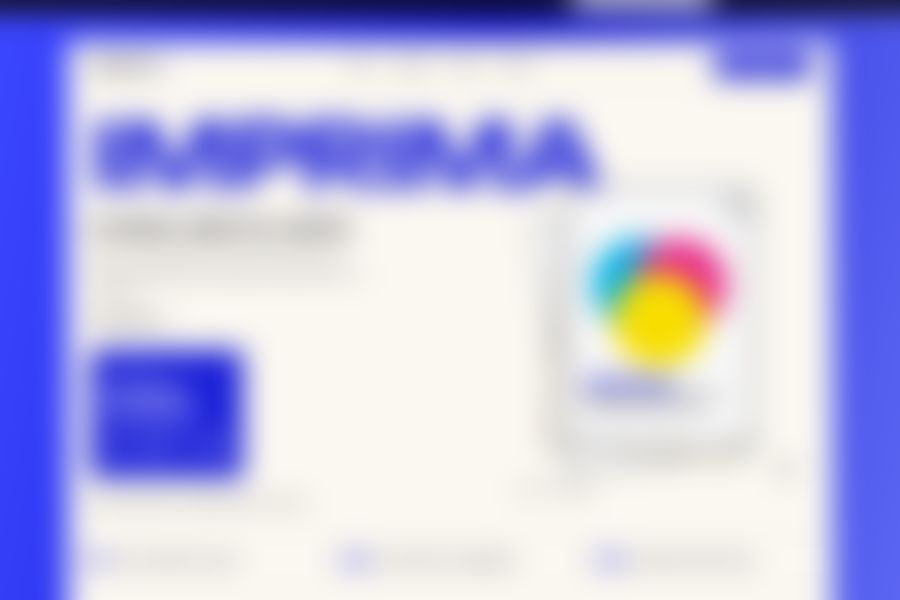
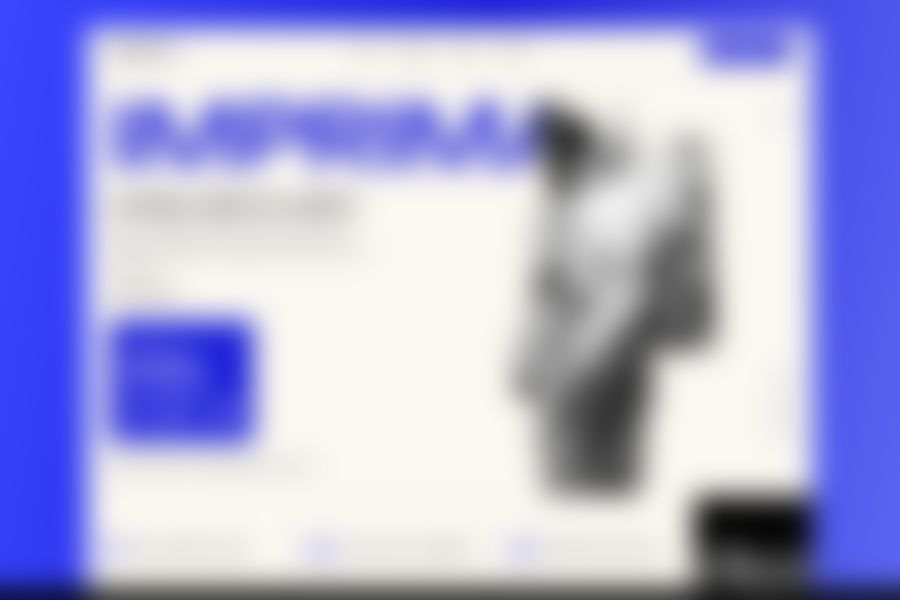
Cobalto: fotos reais P&B fiéis ao pin (#180)
* wip

* Cobalto: fotos reais P&B do pin (astronauta recortado, Lua, Terra, polaroid)

diff --git a/src/components/models/GraficaFold.tsx b/src/components/models/GraficaFold.tsx
@@ -1,6 +1,6 @@
 import { useEffect, useState } from "react";
 
-/** Grafica e estudio de design, construida do zero a partir de um pin creme com tipografia gigante em azul cobalto. Sem fotos: tipografia, blocos de cor e ilustracao em SVG. Pedido de orcamento que fecha no WhatsApp. */
+/** Grafica e estudio de design, construida do zero a partir de um pin creme com tipografia gigante em azul cobalto. Fotos reais em preto e branco (astronauta, Lua, Terra). Pedido de orcamento que fecha no WhatsApp. */
 const BG = "#fbf8f1", BLU = "#1a1fd8", INK = "#0e0e1c", MUT = "#33334a", LINE = "#d9d5c9";
 const STEPS = [
   { t: "Envie o arquivo ou a ideia" },
@@ -20,50 +20,6 @@ const PRICES = [
 ];
 const Ic = ({ d, c = BLU, s = 24 }: { d: string; c?: string; s?: number }) => (
   <svg width={s} height={s} viewBox="0 0 32 32" fill="none" stroke={c} strokeWidth="2" strokeLinecap="round" strokeLinejoin="round" aria-hidden><path d={d} /></svg>
-);
-
-const HeroArt = () => (
-  <svg viewBox="0 0 420 520" className="hart" role="img" aria-label="Folhas empilhadas com círculos de cor ciano, magenta e amarelo">
-    <defs>
-      <pattern id="dots" width="9" height="9" patternUnits="userSpaceOnUse"><circle cx="4.500" cy="4.500" r="2.200" fill={INK} /></pattern>
-      <radialGradient id="fade" cx="50%" cy="50%" r="50%"><stop offset="0" stopColor="#fff" stopOpacity="0" /><stop offset="1" stopColor="#fff" stopOpacity="1" /></radialGradient>
-      <mask id="mk"><rect width="420" height="520" fill="#fff" /><rect width="420" height="520" fill="url(#fade)" /></mask>
-    </defs>
-    <g transform="rotate(-8 210 280)"><rect x="70" y="120" width="250" height="340" rx="6" fill="#fff" stroke={INK} strokeWidth="2" /></g>
-    <g transform="rotate(5 210 280)"><rect x="80" y="110" width="250" height="340" rx="6" fill="#f1ecdf" stroke={INK} strokeWidth="2" /></g>
-    <g>
-      <rect x="92" y="96" width="250" height="340" rx="6" fill="#fff" stroke={INK} strokeWidth="2" />
-      <rect x="92" y="96" width="250" height="340" rx="6" fill="url(#dots)" opacity=".16" />
-      <g style={{ mixBlendMode: "multiply" }}>
-        <circle cx="190" cy="226" r="62" fill="#00b7f0" />
-        <circle cx="244" cy="226" r="62" fill="#ee2a8e" />
-        <circle cx="217" cy="272" r="62" fill="#ffe500" />
-      </g>
-      <path d="M217 226l0 0" />
-      <rect x="116" y="352" width="120" height="10" fill={BLU} />
-      <rect x="116" y="372" width="180" height="6" fill={INK} opacity=".7" />
-      <rect x="116" y="388" width="150" height="6" fill={INK} opacity=".35" />
-      <circle cx="318" cy="120" r="9" fill="none" stroke={INK} strokeWidth="1.500" /><path d="M318 106v28M304 120h28" stroke={INK} strokeWidth="1.500" />
-    </g>
-    <g stroke={INK} strokeWidth="2"><path d="M370 470h28M384 456v28" /></g>
-    <g fontFamily="Unbounded, sans-serif" fontSize="9" fill={INK} letterSpacing="2"><text x="30" y="500">C M Y K 100%</text></g>
-  </svg>
-);
-
-const PlanetArt = () => (
-  <svg viewBox="0 0 300 520" className="part" preserveAspectRatio="xMidYMid slice" aria-hidden>
-    <defs>
-      <pattern id="h2" width="10" height="10" patternUnits="userSpaceOnUse"><circle cx="5" cy="5" r="3.200" fill="#fff" /></pattern>
-      <radialGradient id="g2" cx="42%" cy="38%" r="70%"><stop offset="0" stopColor="#fff" /><stop offset="1" stopColor="#000" /></radialGradient>
-      <mask id="m2"><circle cx="150" cy="210" r="124" fill="url(#g2)" /></mask>
-    </defs>
-    <rect width="300" height="520" fill={BLU} />
-    <rect width="300" height="520" fill="url(#h2)" mask="url(#m2)" />
-    <circle cx="150" cy="210" r="124" fill="none" stroke="#fff" strokeWidth="1.500" />
-    <path d="M0 520V430c40-30 70-34 110-18 40 16 70 8 110-14 30-16 56-12 80 0V520z" fill="#fff" />
-    <path d="M0 520V460c50-26 90-20 130-4 40 14 90 6 170-24V520z" fill={INK} />
-    <g stroke="#fff" strokeWidth="2"><path d="M24 24h22M35 13v22M254 24h22M265 13v22" /></g>
-  </svg>
 );
 
 export function GraficaFold({ client }: { client?: { name?: string; whatsapp?: string; city?: string } }) {
@@ -98,9 +54,10 @@ export function GraficaFold({ client }: { client?: { name?: string; whatsapp?: s
         .cb .burger{display:none;background:none;border:0;width:44px;height:44px;cursor:pointer}
         .cb .mmenu{position:absolute;top:72px;left:12px;right:12px;background:#fff;border:1px solid ${LINE};padding:8px;z-index:9;display:flex;flex-direction:column;box-shadow:0 12px 30px rgba(0,0,0,.15)}
         .cb .mmenu a{padding:14px 12px;font-weight:600;cursor:pointer}
-        .cb .hero{position:relative;padding:34px 34px 0;min-height:600px}
-        .cb .big{font-family:Unbounded,sans-serif;font-weight:700;color:${BLU};font-size:clamp(46px,11.6vw,140px);line-height:.95;letter-spacing:-.04em;margin:0;position:relative;z-index:1}
-        .cb .hart{position:absolute;right:30px;top:40px;width:min(46%,480px);height:auto;z-index:2}
+        .cb .hero{position:relative;padding:34px 34px 0;min-height:600px;overflow:hidden}
+        .cb .big{font-family:Unbounded,sans-serif;font-weight:500;color:${BLU};font-size:clamp(46px,11.6vw,140px);line-height:.95;letter-spacing:-.03em;margin:0;position:relative;z-index:1}
+        .cb .hart{position:absolute;right:150px;bottom:0;height:min(640px,56vw);width:auto;z-index:2;display:block}
+        .cb .star{position:absolute;right:34px;top:58px;z-index:3}.cb .scr{position:absolute;right:34px;bottom:70px;z-index:3;border:1px solid ${LINE};background:#fff;padding:12px 6px;display:flex}.cb .scr b{writing-mode:vertical-rl;font-size:11px;letter-spacing:.1em;font-weight:500;text-transform:uppercase}
         .cb .tag{font-family:Unbounded,sans-serif;font-weight:500;font-size:clamp(19px,2.3vw,27px);letter-spacing:-.01em;margin:30px 0 14px;max-width:560px;line-height:1.2}
         .cb .sub{max-width:430px;font-size:17px;line-height:1.45;color:${MUT};margin:0 0 18px}
         .cb .lnk{display:inline-flex;gap:8px;font-weight:600;border-bottom:1.5px solid ${INK};padding-bottom:2px;color:${INK};text-decoration:none;font-size:15px}
@@ -110,16 +67,18 @@ export function GraficaFold({ client }: { client?: { name?: string; whatsapp?: s
         .cb .card .n{display:flex;gap:16px;font-family:Unbounded,sans-serif;font-size:21px}.cb .card .n span{display:flex;flex-direction:column;font-family:'Barlow Semi Condensed';font-size:11px;letter-spacing:.12em;opacity:1;gap:2px;font-weight:600}
         .cb .card .n span em{font-family:Unbounded;font-style:normal;font-size:22px;opacity:1;letter-spacing:0}
         .cb .loc{display:flex;align-items:center;gap:10px;margin:26px 0 38px;font-size:14px;letter-spacing:.06em;font-weight:500}
-        .cb .stp{display:grid;grid-template-columns:repeat(3,1fr);border-top:1px solid ${LINE};border-bottom:1px solid ${LINE}}
+        .cb .stp{display:grid;grid-template-columns:1fr 1fr 1fr 190px;border-top:1px solid ${LINE};border-bottom:1px solid ${LINE}}
         .cb .stp div{display:flex;align-items:center;gap:14px;padding:22px 24px;font-size:15.5px;font-weight:500;text-transform:uppercase;letter-spacing:.02em;line-height:1.2}
         .cb .stp div+div{border-left:1px solid ${LINE}}
+        .cb .stp .thb{width:190px;height:100%;min-height:84px;object-fit:cover;display:block;filter:grayscale(1)}
         .cb .stp i{font-family:Unbounded,sans-serif;font-style:normal;font-size:28px;color:${BLU};font-weight:500}
         .cb .sec{padding:84px 0}
         .cb .ms{display:grid;grid-template-columns:1fr 280px 1fr;gap:36px;align-items:stretch}
         .cb .eye{font-size:13px;letter-spacing:.12em;color:${BLU};font-weight:600;margin-bottom:14px;text-transform:uppercase}
         .cb h2{font-family:Unbounded,sans-serif;font-weight:500;font-size:clamp(22px,2.6vw,30px);line-height:1.18;letter-spacing:-.02em;margin:0 0 20px;text-transform:uppercase}
         .cb .ms p{font-size:16.5px;line-height:1.5;color:${MUT};margin:0 0 20px}
-        .cb .pan{overflow:hidden;min-height:460px}.cb .part{width:100%;height:100%;display:block}
+        .cb .pan{overflow:hidden;min-height:460px;background:${BLU}}.cb .part{width:100%;height:100%;display:block;object-fit:cover;}
+        .cb .pol{margin-top:28px;background:#fff;border:1px solid ${LINE};padding:8px 8px 10px;width:210px}.cb .pol img{width:100%;aspect-ratio:4/3.2;object-fit:cover;display:block}.cb .pol div{display:flex;justify-content:space-between;align-items:center;margin-top:8px;font-size:11px;letter-spacing:.04em;font-weight:500}.cb .pol i{width:26px;height:14px;background:${INK};display:block}
         .cb .fs{display:flex;flex-direction:column}
         .cb .f{display:grid;grid-template-columns:52px 1fr;gap:6px 16px;padding:22px 0;border-bottom:1px solid ${LINE}}
         .cb .f:first-child{padding-top:0}.cb .f:last-child{border:0}
@@ -149,7 +108,7 @@ export function GraficaFold({ client }: { client?: { name?: string; whatsapp?: s
         .cb .wa{position:fixed;right:18px;bottom:18px;z-index:40;width:58px;height:58px;border-radius:50%;background:#25d366;display:grid;place-items:center;box-shadow:0 8px 24px rgba(0,0,0,.3)}
         @media(max-width:980px){
           .cb .tl{grid-template-columns:1fr 1fr}
-          .cb .hart{position:relative;right:auto;top:auto;width:78%;max-width:340px;margin:8px auto -10px;display:block}
+          .cb .star,.cb .scr{display:none}.cb .hart{position:relative;right:auto;bottom:auto;width:64%;max-width:300px;height:auto;margin:8px auto 0;display:block}
           .cb .hero{min-height:0;padding:26px 20px 0}
           .cb .ms{grid-template-columns:1fr 1fr}.cb .pan{grid-row:1}.cb .pan{min-height:380px}
           .cb .pg{grid-template-columns:1fr 1fr}.cb .pc:nth-child(3){border-left:0}.cb .pc:nth-child(n+3){border-top:1px solid #33334a}
@@ -157,9 +116,9 @@ export function GraficaFold({ client }: { client?: { name?: string; whatsapp?: s
         @media(max-width:760px){
           .cb .shell{padding-top:0}.cb .page{width:100%}
           .cb .links,.cb .nav .btn{display:none}.cb .burger{display:block}.cb .nav{padding:0 14px 0 18px}
-          .cb .stp{grid-template-columns:1fr}.cb .stp div+div{border-left:0;border-top:1px solid ${LINE}}.cb .stp div{padding:16px 20px}
+          .cb .stp{grid-template-columns:1fr}.cb .stp .thb{width:100%;height:140px}.cb .stp div+div{border-left:0;border-top:1px solid ${LINE}}.cb .stp div{padding:16px 20px}
           .cb .wrap{padding:0 20px}.cb .wrap.sec{padding:56px 20px}
-          .cb .big{font-size:14.6vw}.cb .hart{margin:0 auto -6px}
+          .cb .big{font-size:14.6vw}.cb .hart{margin:0 auto}
           .cb .ms{grid-template-columns:1fr;gap:30px}.cb .pan{min-height:300px;max-height:340px;grid-row:auto}
           .cb .pg{grid-template-columns:1fr}.cb .pc{border-left:0!important;border-top:1px solid #33334a}.cb .pc:first-child{border-top:0}
           .cb .pc b{min-height:0;margin-bottom:14px}
@@ -180,7 +139,8 @@ export function GraficaFold({ client }: { client?: { name?: string; whatsapp?: s
 
           <div className="hero">
             <h1 className="big">IMPRIMA</h1>
-            <HeroArt />
+            <img className="hart" src="/cob-astro.webp" alt="Astronauta de perfil em preto e branco" />
+            <svg className="star" width="22" height="22" viewBox="0 0 24 24" aria-hidden><path d="M12 0l2.2 9.8L24 12l-9.8 2.2L12 24l-2.2-9.8L0 12l9.8-2.2z" fill="#1a1fd8" /></svg><span className="scr"><b>Role para descobrir</b></span>
             <div className="tag">O PAPEL NÃO É O LIMITE</div>
             <p className="sub">Gráfica e estúdio de design em {city}. Cartões, adesivos, banners e embalagens com acabamento de quem leva a sério o seu projeto.</p>
             <a className="lnk" href={wa()} target="_blank" rel="noreferrer">Pedir orçamento <span>↗</span></a>
@@ -188,7 +148,7 @@ export function GraficaFold({ client }: { client?: { name?: string; whatsapp?: s
             <div className="loc"><svg width="18" height="18" viewBox="0 0 32 32" fill="none" stroke={INK} strokeWidth="2"><circle cx="16" cy="16" r="12" /><path d="M4 16h24M16 4c-6 6-6 18 0 24M16 4c6 6 6 18 0 24" /></svg>GRÁFICA RÁPIDA · IMPRESSÃO DIGITAL E OFFSET</div>
           </div>
 
-          <div className="stp">{STEPS.map((s, i) => (<div key={s.t}><i>0{i + 1}</i>{s.t}</div>))}</div>
+          <div className="stp">{STEPS.map((s, i) => (<div key={s.t}><i>0{i + 1}</i>{s.t}</div>))}<img className="thb" src="/cob-lua.webp" alt="Astronauta caminhando na superfície da Lua" loading="lazy" /></div>
 
           <div className="wrap sec" id="sobre">
             <div className="ms">
@@ -197,8 +157,9 @@ export function GraficaFold({ client }: { client?: { name?: string; whatsapp?: s
                 <h2>Levar boas ideias do arquivo ao papel.</h2>
                 <p>Na {brand}, cada pedido passa por conferência de arquivo, prova de cor e acabamento manual. Você recebe o material pronto, no prazo combinado.</p>
                 <a className="lnk" href={wa("conhecer a gráfica")} target="_blank" rel="noreferrer">Falar com a gente <span>↗</span></a>
+                <div className="pol"><img src="/cob-mini.webp" alt="Astronauta em estúdio escuro" loading="lazy" /><div><span>28.572°N 80.648°W</span><i /></div></div>
               </div>
-              <div className="pan"><PlanetArt /></div>
+              <div className="pan"><img className="part" src="/cob-terra.webp" alt="Planeta Terra sobre uma superfície rochosa" loading="lazy" /></div>
               <div className="fs">{FEATS.map((f) => (<div className="f" key={f.t}><i><Ic d={f.ic} s={30} /></i><b>{f.t}</b><span>{f.d}</span></div>))}</div>
             </div>
           </div>
